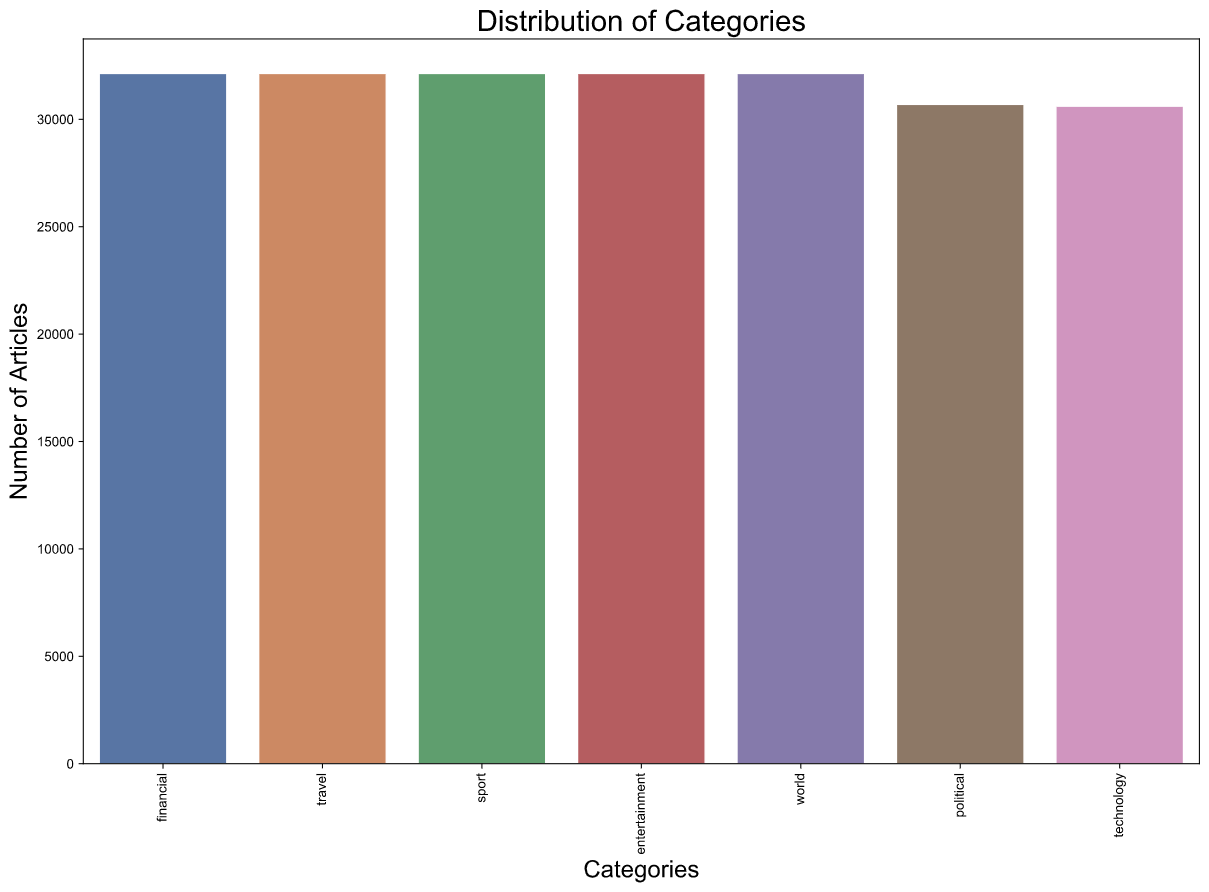
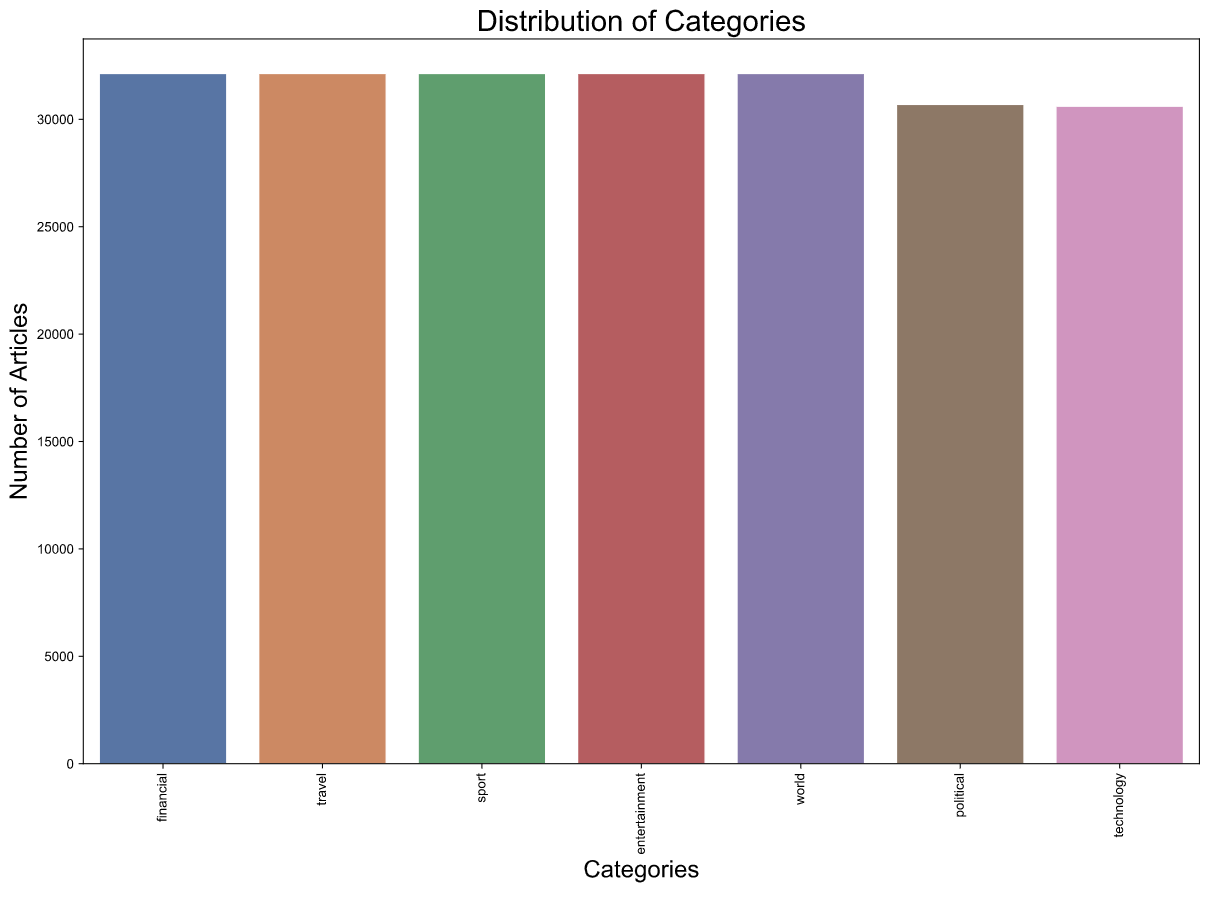
edited images to be displayed in Github's dark mode

diff --git a/README.md b/README.md
@@ -75,7 +75,7 @@ More info in [Data Cleaning pt2](3_Data_Cleaning_pt2.ipynb) and in [EDA.py](EDA.
 Accuracy can be a valid choice for our classification evaluation challenge since the dataset is well balanced.<br/>
 As we see from the above image, the best algorithms were by far Support Vectors with the implementation of [SVC](https://scikit-learn.org/stable/modules/generated/sklearn.svm.SVC.html) coming 1st and [SDG](https://scikit-learn.org/stable/modules/generated/sklearn.linear_model.SGDClassifier.html#sklearn.linear_model.SGDClassifier) (stochastic gradient descent) following in 2nd place with a very small difference.
 
-### 4. Pandas crashes as it was unable to locate <b>76GB</b> in RAM for training the model with the full dataset! Now what?
+### 4. Pandas crashed as it was unable to locate <b>76GB</b> in RAM for training the model with the full dataset! Now what?
 
 <div style="text-align:center"><img src="visuals/READme/dask.png" alt=DASK" width="580" height="250"></div> <br/>
 For applying our GridSearch, I used a small representation of the whole dataset to save up time and computing capacity. However, I knew that this might be a problem when I will have to fit the model with the whole dataset. There was no way for me to fit the final model in 76GB of memory and I had to search for alternatives.
